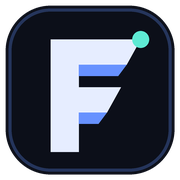
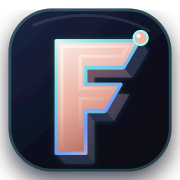
Unify the brand around a dimensional F mark

diff --git a/src/components/Header.tsx b/src/components/Header.tsx
@@ -34,12 +34,15 @@ function isTyping(target: EventTarget | null): boolean {
 /** The FRONTIER monogram, shared visually with the browser-tab icon. */
 export function BrandMark({ size = 20 }: { size?: number }) {
   return (
-    <svg className="icon brand-mark" viewBox="0 0 64 64" width={size} height={size} aria-hidden="true">
-      <rect className="brand-mark-bg" x="2" y="2" width="60" height="60" rx="16" />
-      <path className="brand-mark-face" d="M18 14h32l-5 9H28v8h15l-5 9H28v14H18V14Z" />
-      <path className="brand-mark-depth" d="M28 23h17l-3 4H28v-4ZM28 40h10l-3 4h-7v-4Z" />
-      <circle className="brand-mark-signal" cx="50" cy="14" r="3" />
-    </svg>
+    <img
+      className="icon brand-mark"
+      src={`${import.meta.env.BASE_URL}favicon.svg?v=3`}
+      width={size}
+      height={size}
+      alt=""
+      decoding="async"
+      aria-hidden="true"
+    />
   );
 }
 

diff --git a/index.html b/index.html
@@ -11,9 +11,9 @@
     <meta property="og:description" content="Bilingual (English / Persian) technology news from public sources, deduplicated and transparently ranked." />
     <meta property="og:type" content="website" />
     <script src="./theme-init.js"></script>
-    <link rel="icon" type="image/svg+xml" href="./favicon.svg?v=2" />
-    <link rel="shortcut icon" href="./favicon.svg?v=2" />
-    <link rel="apple-touch-icon" href="./apple-touch-icon.png?v=2" />
+    <link rel="icon" type="image/svg+xml" href="./favicon.svg?v=3" />
+    <link rel="shortcut icon" href="./favicon.svg?v=3" />
+    <link rel="apple-touch-icon" href="./apple-touch-icon.png?v=3" />
     <title>FRONTIER</title>
   </head>
   <body>

diff --git a/src/styles/app.css b/src/styles/app.css
@@ -369,24 +369,8 @@ html[lang='fa'] .mt-label {
 .wordmark-glyph .icon {
   inline-size: 2.2rem;
   block-size: 2.2rem;
-}
-
-.brand-mark-bg {
-  fill: #0c0f19;
-  stroke: #25355c;
-  stroke-width: 2;
-}
-
-.brand-mark-face {
-  fill: #e6edff;
-}
-
-.brand-mark-depth {
-  fill: #477bff;
-}
-
-.brand-mark-signal {
-  fill: #5eead4;
+  object-fit: contain;
+  filter: drop-shadow(0 3px 6px rgba(0, 0, 0, 0.32));
 }
 
 .wordmark-text,
